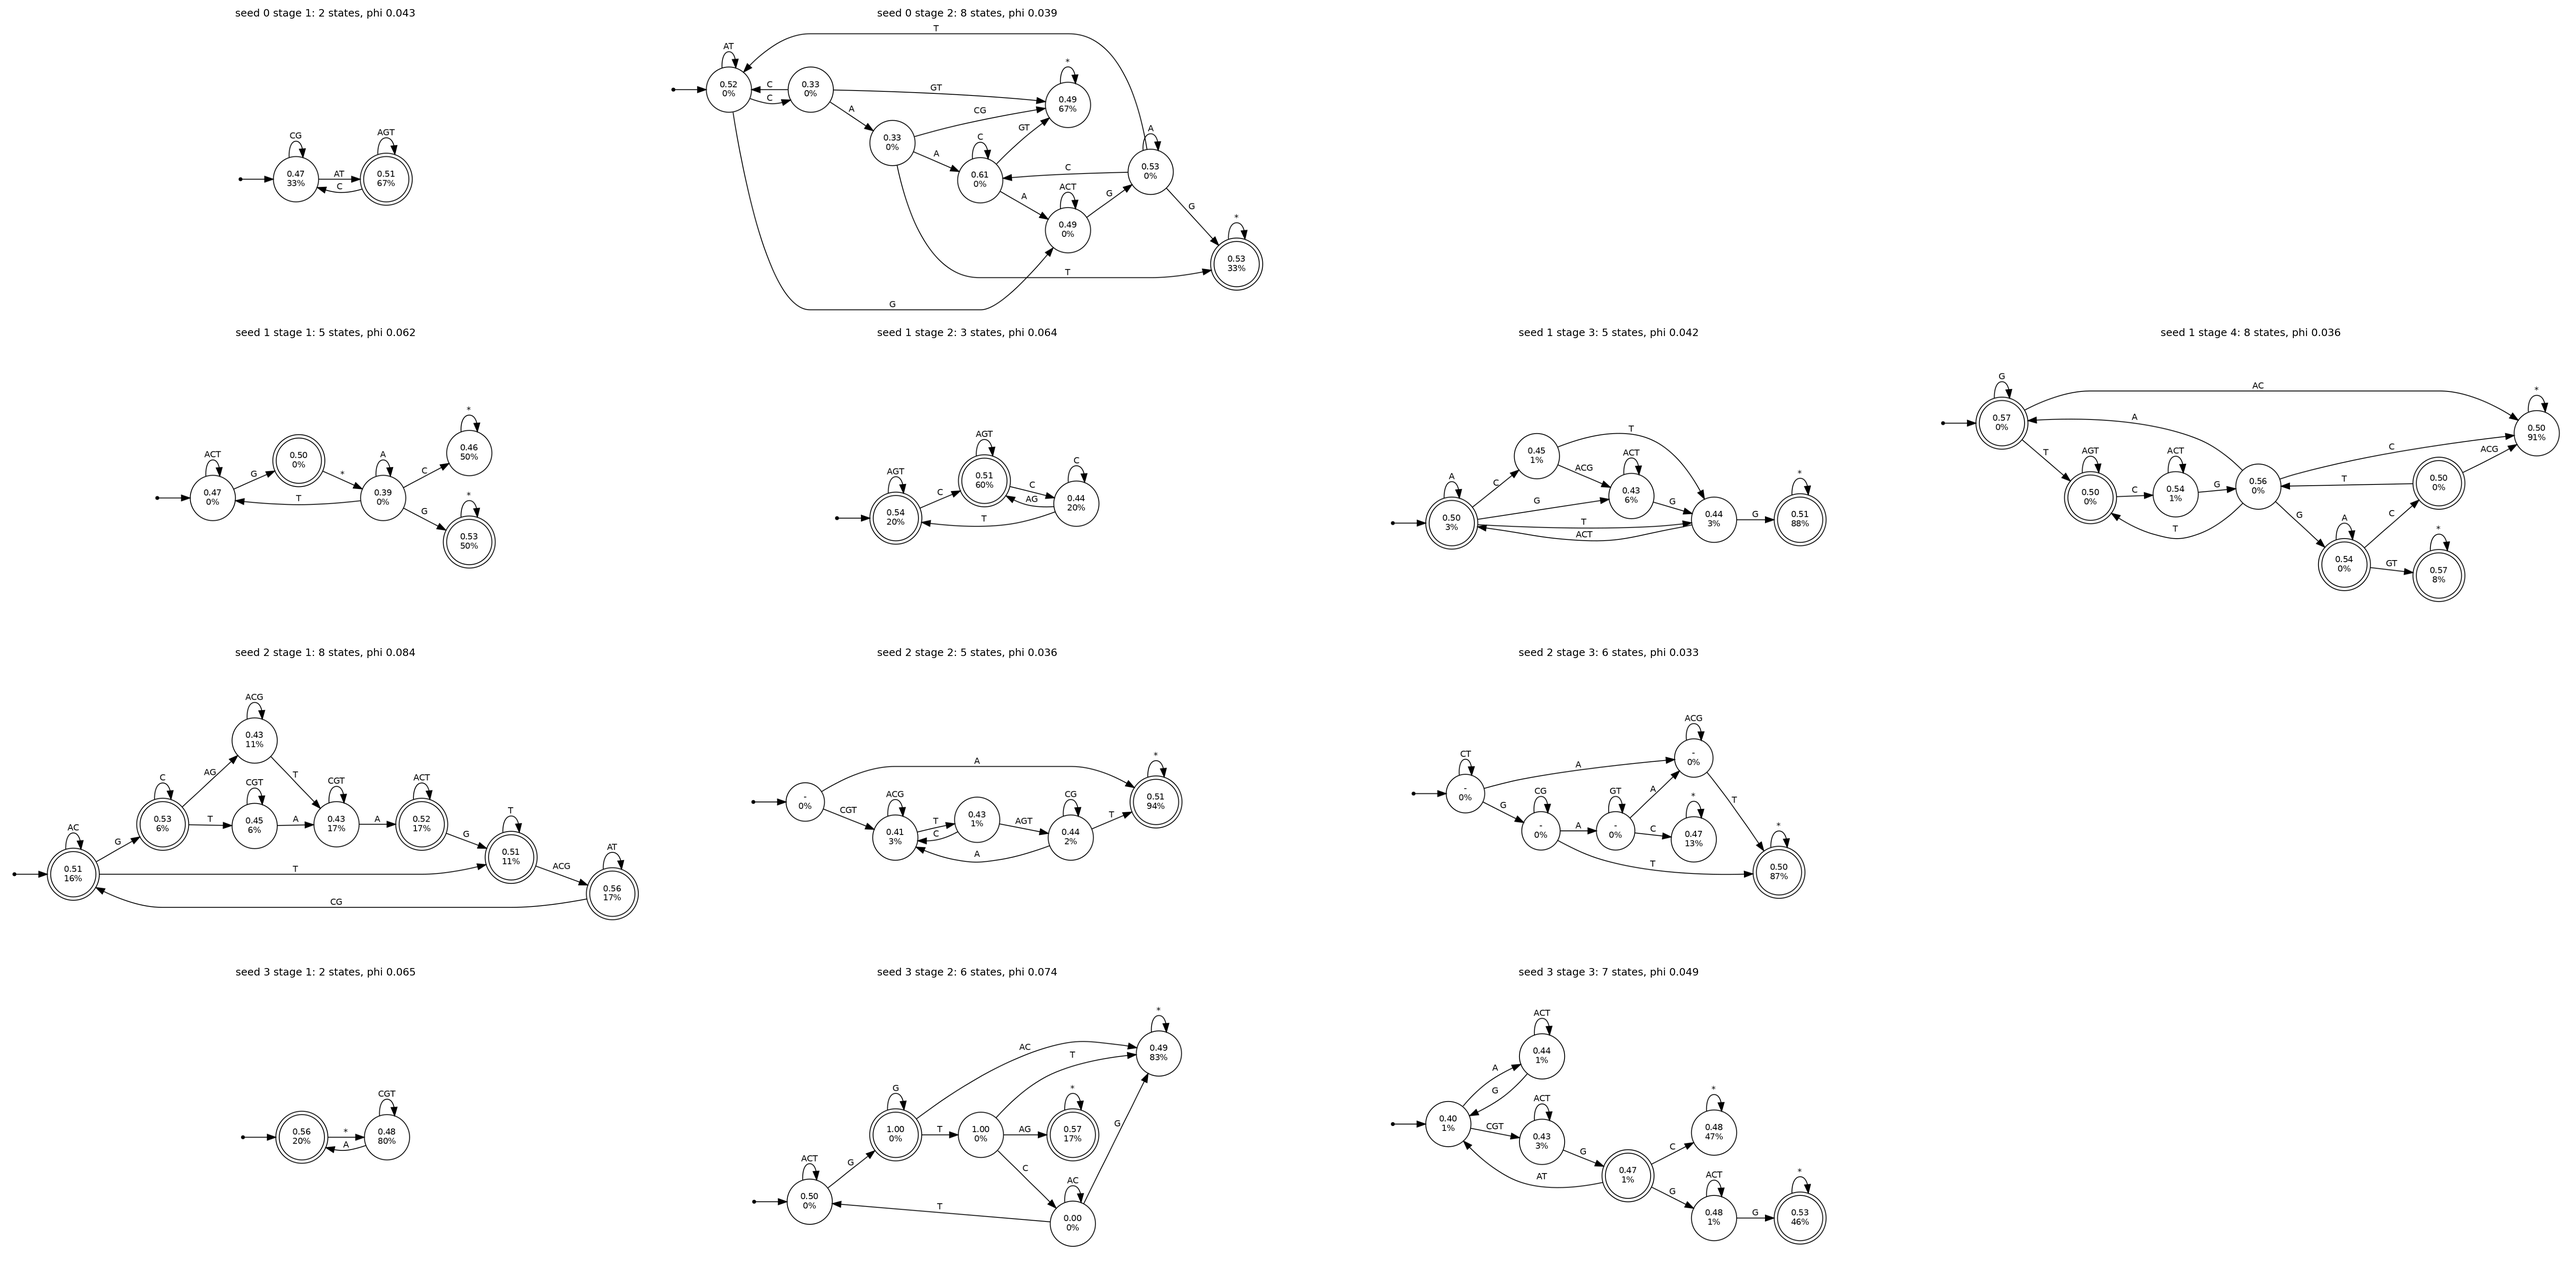
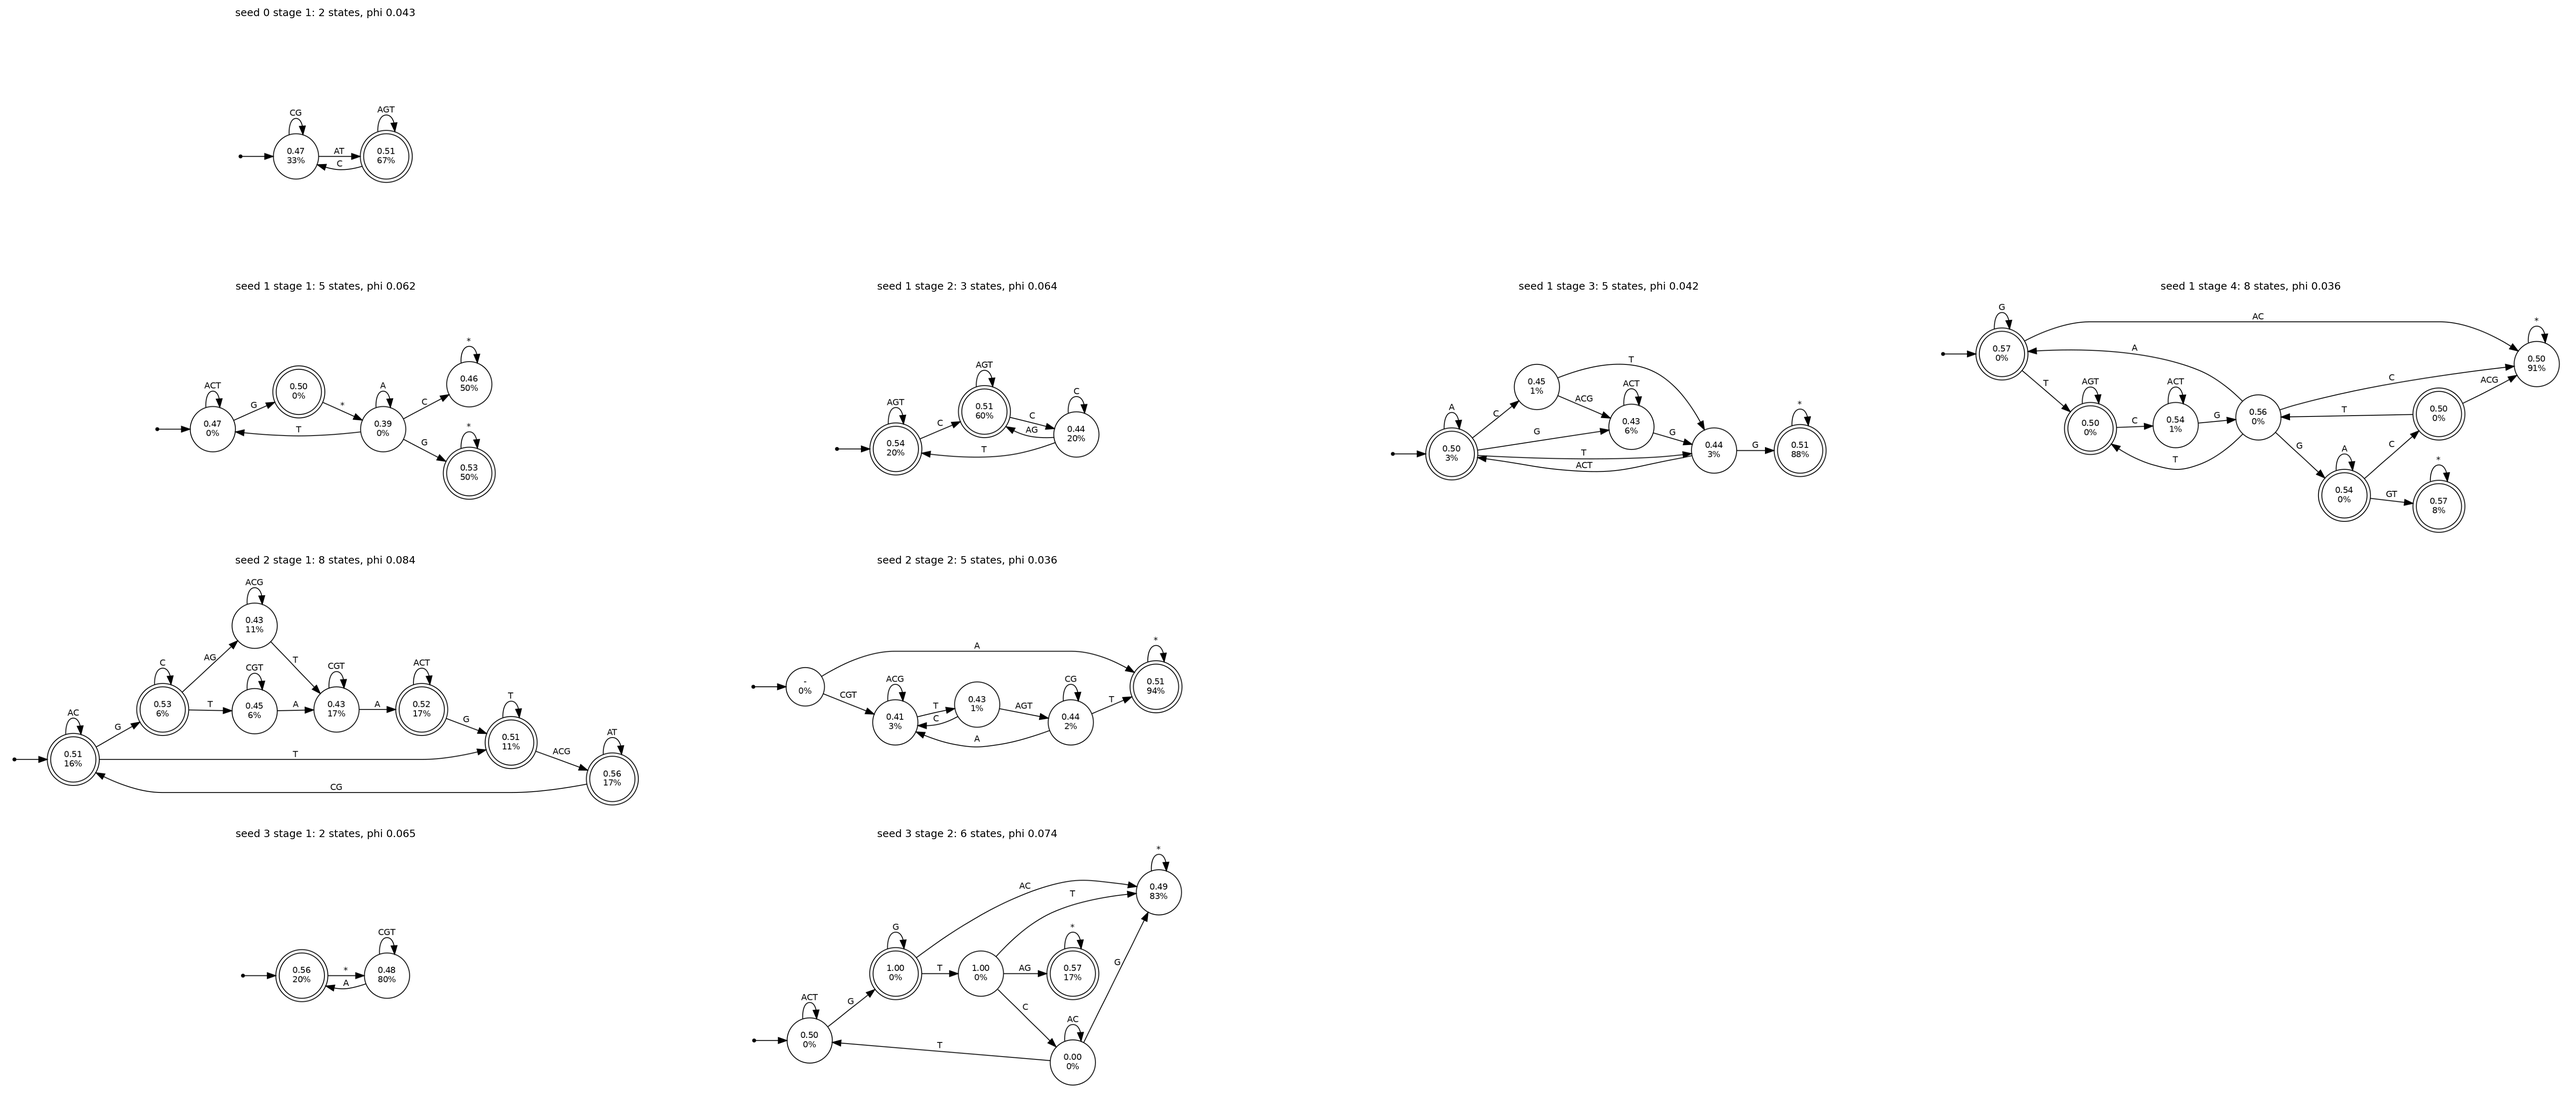
Leave out the stages that lower a seed's product phi from the grid

diff --git a/orthogonal_dfa/experiments/raw_acgt/report.py b/orthogonal_dfa/experiments/raw_acgt/report.py
@@ -204,14 +204,17 @@ def dot_png(table, cells, labels):
 def draw_stages():
     """Row s, column k: seed s's stage-k DFA, minimized under its held-out accepting
     states for the labels it learned (the flat oracle's for stage 1, the residual's
-    after)."""
+    after).  A seed's row ends before the first stage that lowers its product's phi."""
     c_fit, c_ev = saved_centred("fit"), saved_centred("eval")
     panels = {}
     for s in SEEDS:
         with open(RESIDUAL / f"s{s}" / "stages.jsonl") as f:
             records = [json.loads(line) for line in f]
-        labels = c_ev > 0
+        labels, best = c_ev > 0, -1.0
         for r in records:
+            if r["product_phi"] < best:
+                break
+            best = r["product_phi"]
             q = end_states(r["dfa"], EVAL)
             table = minimize(r["dfa"], accepting(q, labels))
             panels[s, r["stage"]] = (
